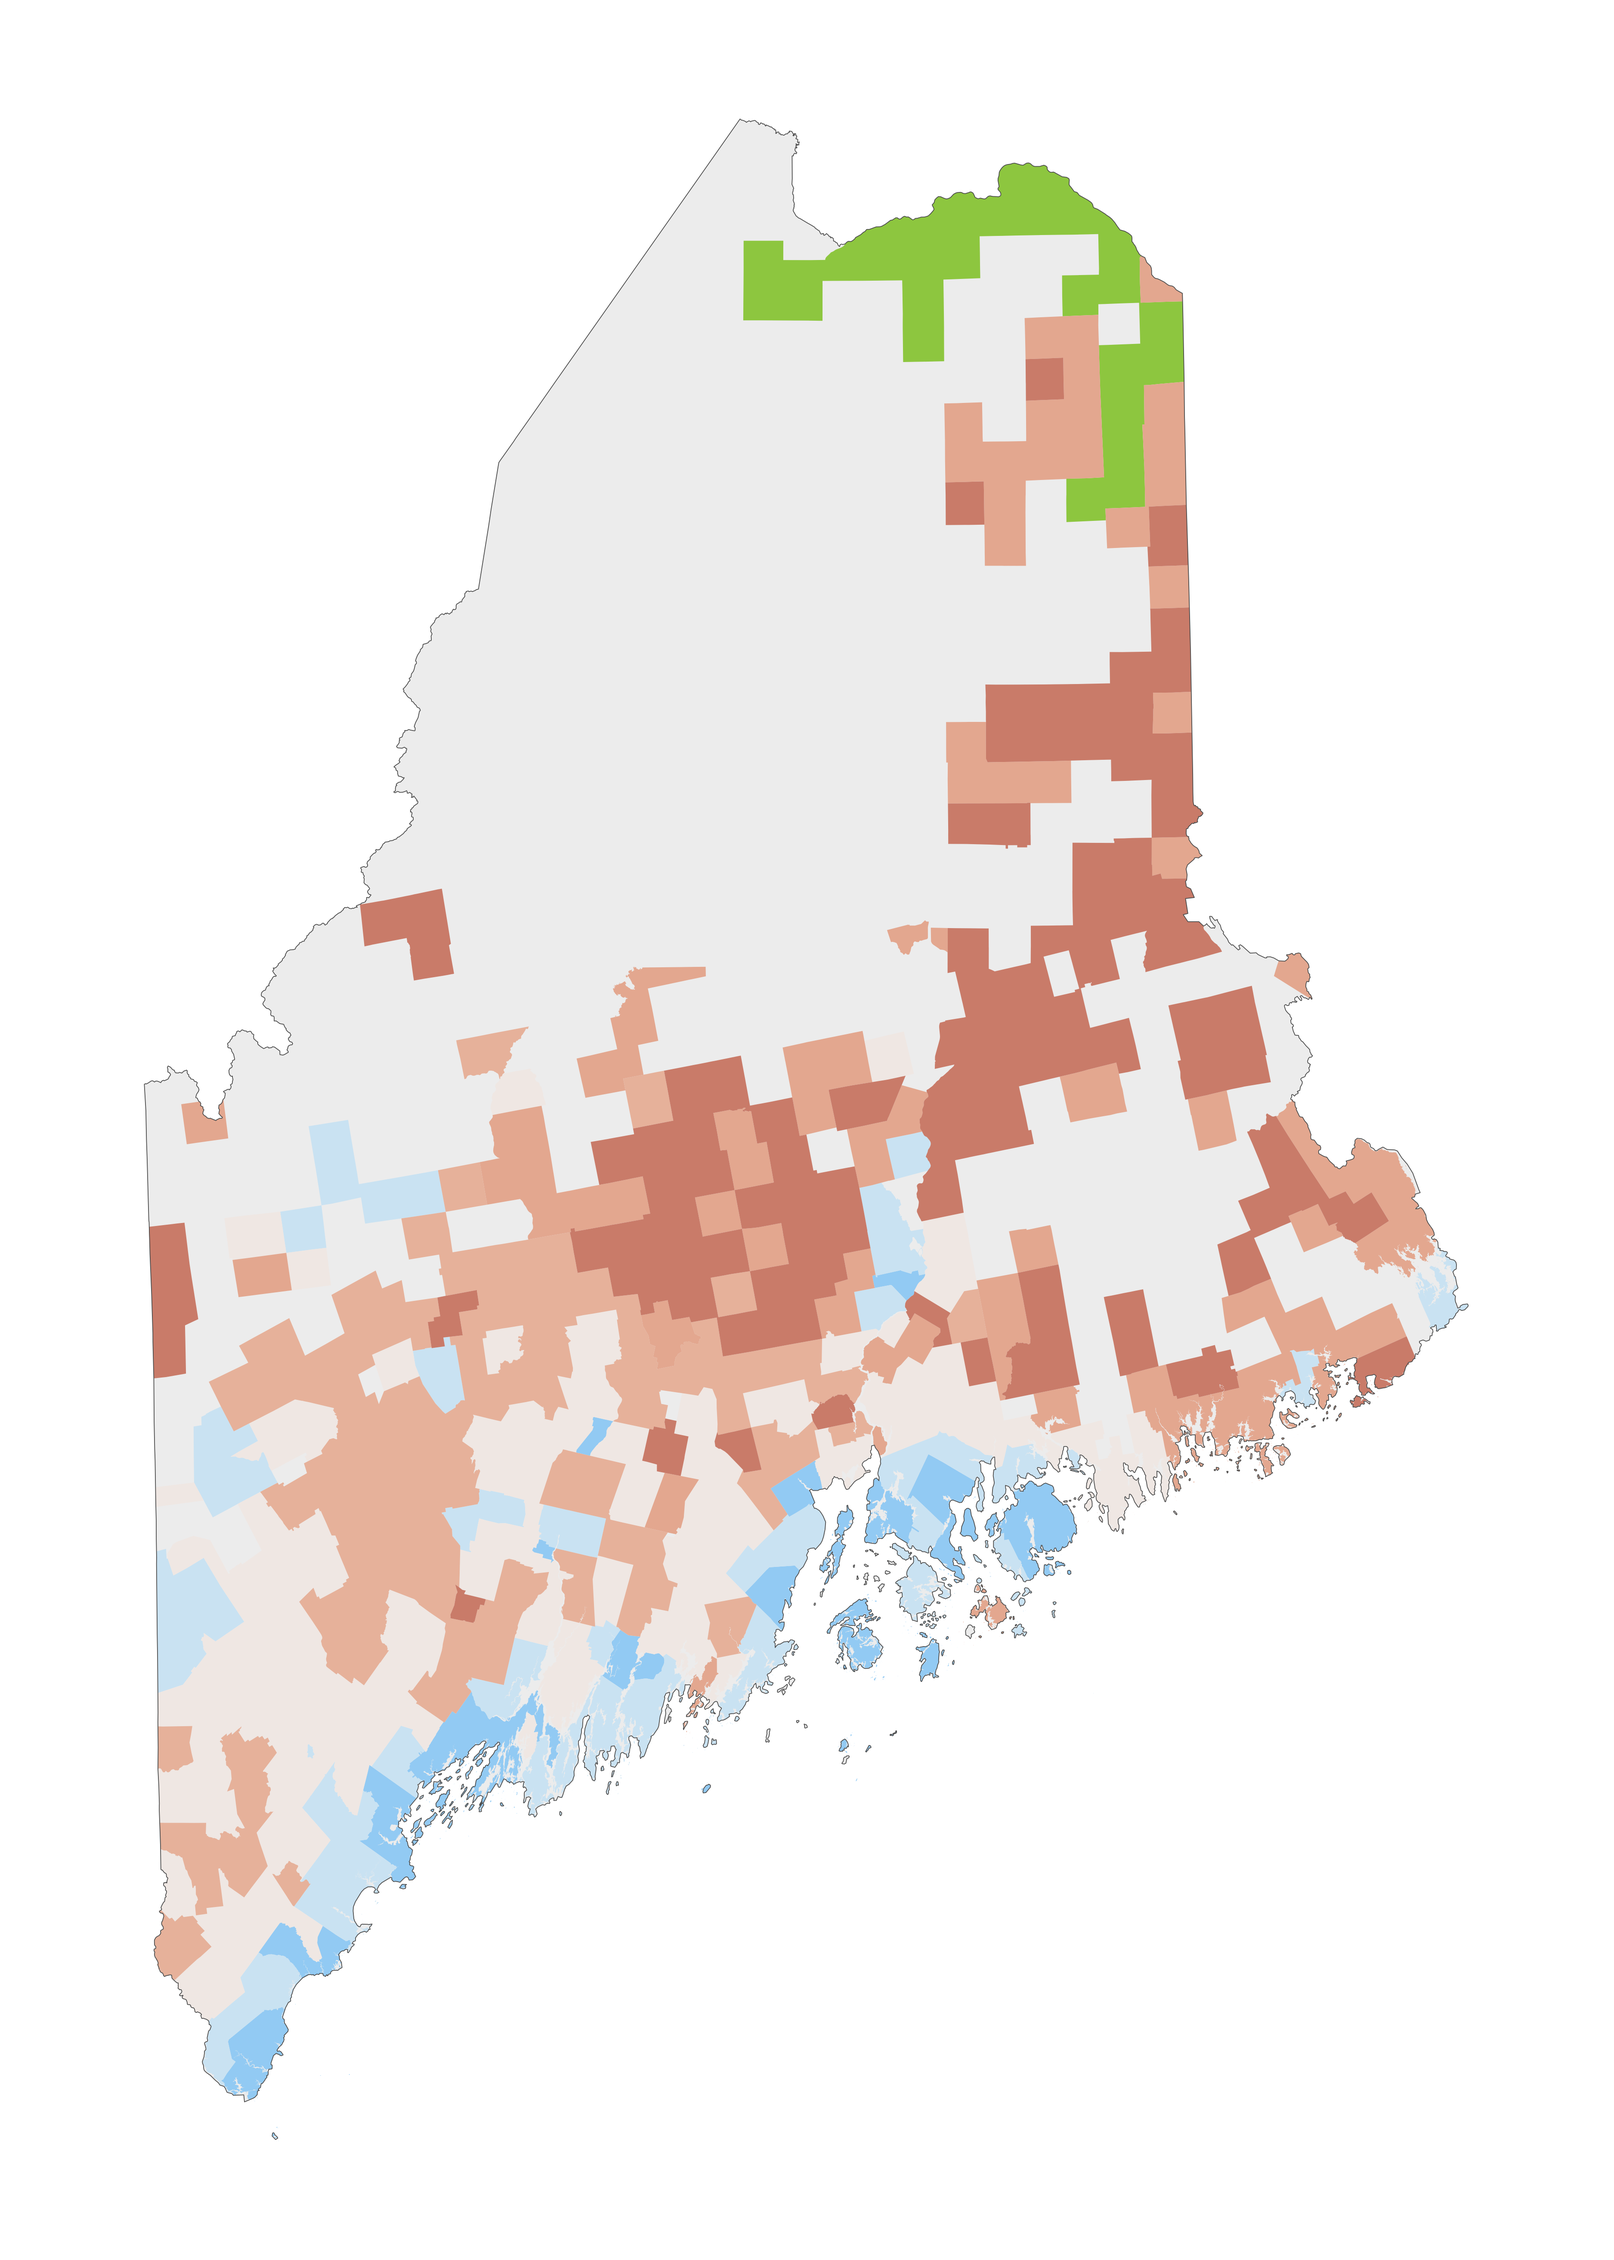
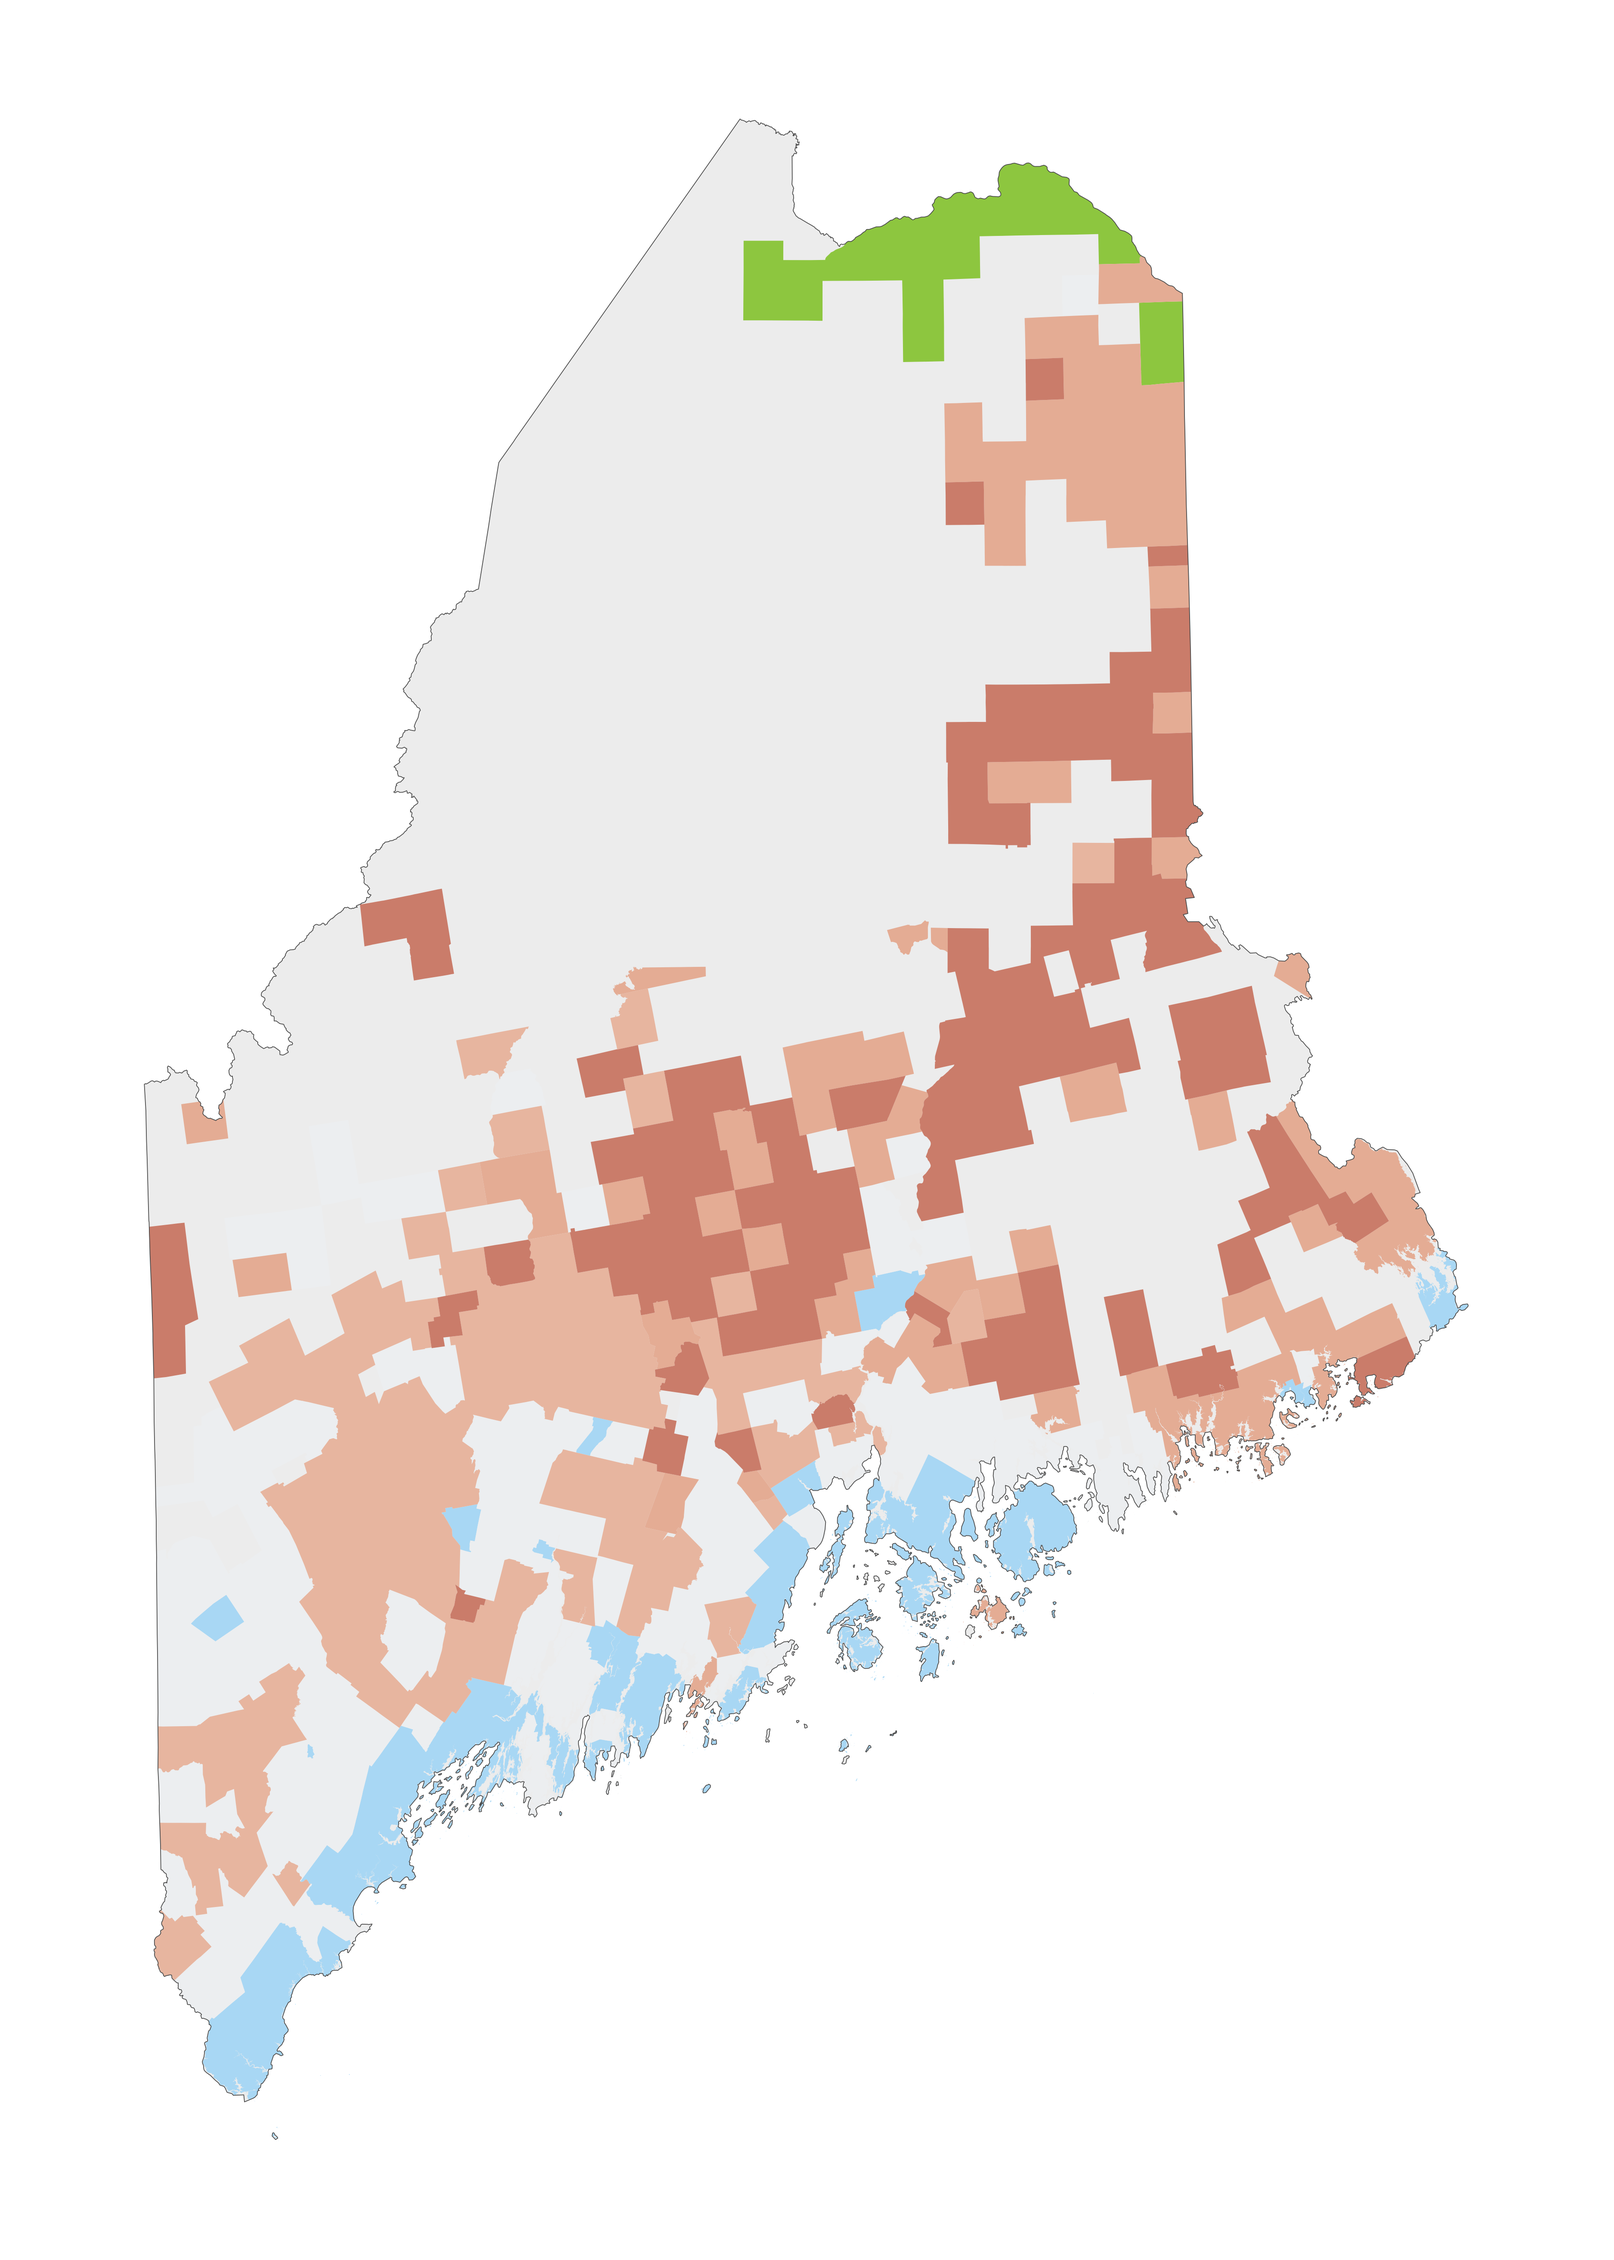
Atlas (live, fused colours): Maine as six stepping-stone blocs
The published atlas page includes the fused panels and map, so the six-bloc
Maine partition goes there too: Trump-2024 red/blue colours by the shared
rule, New France keeping the Franco-American lime; panel, zoom maps, PCA
and the US map rebuilt.

diff --git a/research/_atlas_fused_panels.html b/research/_atlas_fused_panels.html
@@ -178,20 +178,19 @@
 <section class="atlas-panel" id="panel-me" hidden>
   <header class="atlas-panel-head"><h2>Maine</h2>
     <button type="button" class="atlas-close" aria-label="Close Maine panel">&times;</button></header>
-  <p class="atlas-panel-sub">462 towns, 72 statewide questions, 2008–2025, 7 voting blocs.</p>
+  <p class="atlas-panel-sub">462 towns, 72 statewide questions, 2008–2025, 6 voting blocs.</p>
   <div class="atlas-panel-grid">
     <figure class="atlas-pca"><img loading="lazy" src="../files/images/research/atlas-fused/me_pca.gif" alt="Rotating three-dimensional plot of Maine towns on their first three Jensen-Shannon principal coordinates, colored by voting bloc, with numbered bloc centroids.">
       <figcaption>Towns on the first three principal coordinates of their voting (PC1 60% of variation). Numbers mark bloc centers. <strong>Click the plot</strong> to color the same points by density, race and education.</figcaption></figure>
     <ol class="atlas-blocs">
-      <li><span class="bloc-swatch" style="background:#92CAF3;color:#111">1</span><span class="bloc-name">The Old Coast</span><span class="bloc-meta">39 towns &middot; Harris 2024 74%</span></li>
-      <li><span class="bloc-swatch" style="background:#C9E2F2;color:#111">2</span><span class="bloc-name">The River Towns</span><span class="bloc-meta">62 towns &middot; Harris 2024 61%</span></li>
-      <li><span class="bloc-swatch" style="background:#EFE7E3;color:#111">3</span><span class="bloc-name">The Mills</span><span class="bloc-meta">93 towns &middot; Harris 2024 48%</span></li>
-      <li><span class="bloc-swatch" style="background:#8DC63F;color:#111">4</span><span class="bloc-name">New France</span><span class="bloc-meta">19 towns &middot; Harris 2024 43%</span></li>
-      <li><span class="bloc-swatch" style="background:#E6B19A;color:#111">5</span><span class="bloc-name">Hills and Fields</span><span class="bloc-meta">81 towns &middot; Harris 2024 39%</span></li>
-      <li><span class="bloc-swatch" style="background:#E3A78F;color:#111">6</span><span class="bloc-name">North Woods</span><span class="bloc-meta">74 towns &middot; Harris 2024 37%</span></li>
-      <li><span class="bloc-swatch" style="background:#C97B69;color:#fff">7</span><span class="bloc-name">Hinterlands</span><span class="bloc-meta">94 towns &middot; Harris 2024 28%</span></li>
+      <li><span class="bloc-swatch" style="background:#A8D7F4;color:#111">1</span><span class="bloc-name">The Old Coast</span><span class="bloc-meta">74 towns &middot; Harris 2024 69%</span></li>
+      <li><span class="bloc-swatch" style="background:#ECEEF0;color:#111">2</span><span class="bloc-name">The River Towns</span><span class="bloc-meta">107 towns &middot; Harris 2024 51%</span></li>
+      <li><span class="bloc-swatch" style="background:#8DC63F;color:#111">3</span><span class="bloc-name">New France</span><span class="bloc-meta">14 towns &middot; Harris 2024 43%</span></li>
+      <li><span class="bloc-swatch" style="background:#E7B59F;color:#111">4</span><span class="bloc-name">The Mills</span><span class="bloc-meta">94 towns &middot; Harris 2024 40%</span></li>
+      <li><span class="bloc-swatch" style="background:#E4AC94;color:#111">5</span><span class="bloc-name">The County</span><span class="bloc-meta">75 towns &middot; Harris 2024 38%</span></li>
+      <li><span class="bloc-swatch" style="background:#CA7C6A;color:#fff">6</span><span class="bloc-name">The Deep Woods</span><span class="bloc-meta">98 towns &middot; Harris 2024 28%</span></li>
     </ol>
-    <figure class="atlas-state-map"><div class="atlas-zoom"><img loading="lazy" src="../files/images/research/atlas-fused/me_map.png" data-hi="../files/images/research/atlas-fused/me_map_hi.png" data-lines="../files/images/research/atlas/me_lines.png" data-labels="../files/images/research/atlas/me_labels.json" alt="Map of Maine towns colored by voting bloc (7 blocs)." draggable="false"></div><figcaption>Scroll, pinch or double-click to zoom; drag to pan. Zoom in for boundaries and town names.</figcaption></figure>
+    <figure class="atlas-state-map"><div class="atlas-zoom"><img loading="lazy" src="../files/images/research/atlas-fused/me_map.png" data-hi="../files/images/research/atlas-fused/me_map_hi.png" data-lines="../files/images/research/atlas/me_lines.png" data-labels="../files/images/research/atlas/me_labels.json" alt="Map of Maine towns colored by voting bloc (6 blocs)." draggable="false"></div><figcaption>Scroll, pinch or double-click to zoom; drag to pan. Zoom in for boundaries and town names.</figcaption></figure>
   </div>
   <div class="atlas-demog" id="demog-me" hidden>
     <img loading="lazy" width="1200" height="400" data-src="../files/images/research/atlas/me_demog.gif" alt="Three synchronized rotating plots of the same towns on the same principal coordinates, colored by population density, by racial composition, and by share with a bachelor's degree.">
